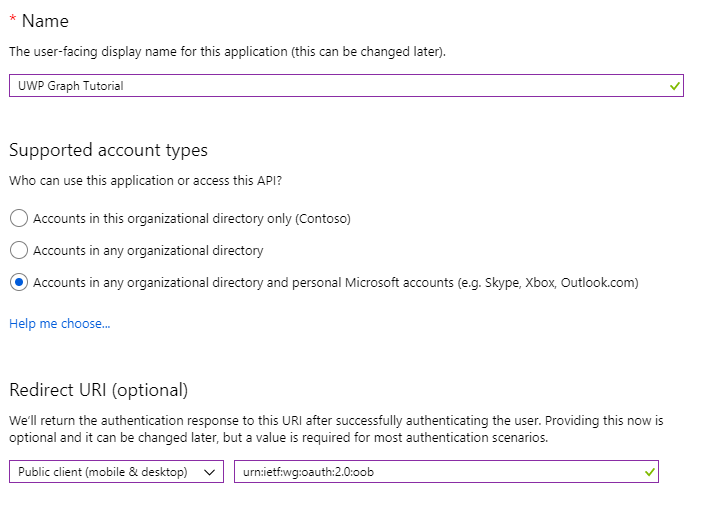
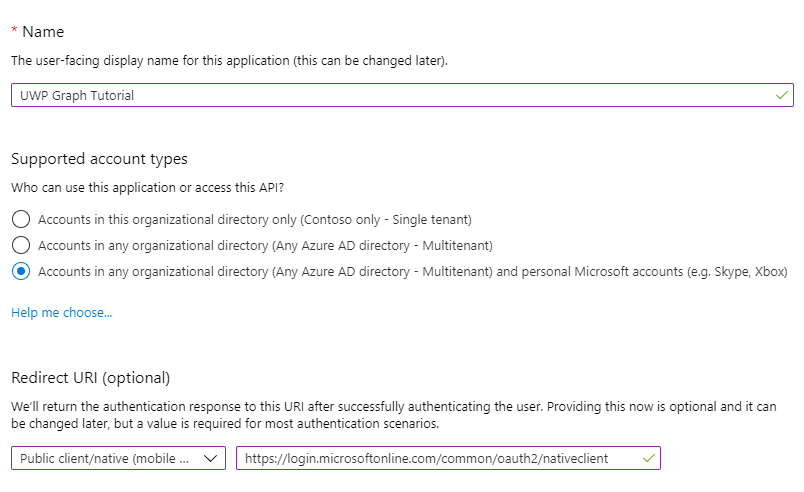
Update register app step

diff --git a/demo/GraphTutorial/MainPage.xaml.cs b/demo/GraphTutorial/MainPage.xaml.cs
@@ -26,7 +26,7 @@ namespace GraphTutorial
         {
             this.InitializeComponent();
 
-            // Configure MSAL provider
+            // Configure MSAL provider  
             // TEMPORARY
             MsalProvider.ClientId = "11111111-1111-1111-1111-111111111111";
 

diff --git a/tutorial/03-register-app.md b/tutorial/03-register-app.md
@@ -12,7 +12,7 @@ In this exercise you will create a new Azure AD native application using the Azu
 
     - Set **Name** to `UWP Graph Tutorial`.
     - Set **Supported account types** to **Accounts in any organizational directory and personal Microsoft accounts**.
-    - Under **Redirect URI**, change the dropdown to **Public client (mobile & desktop)**, and set the value to `urn:ietf:wg:oauth:2.0:oob`.
+    - Under **Redirect URI**, change the dropdown to **Public client (mobile & desktop)**, and set the value to `https://login.microsoftonline.com/common/oauth2/nativeclient`.
 
     ![A screenshot of the Register an application page](./images/aad-register-app.png)
 
